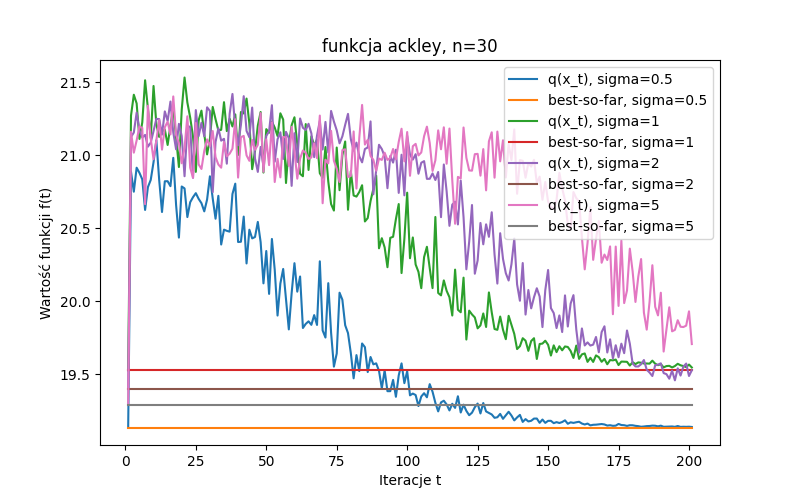
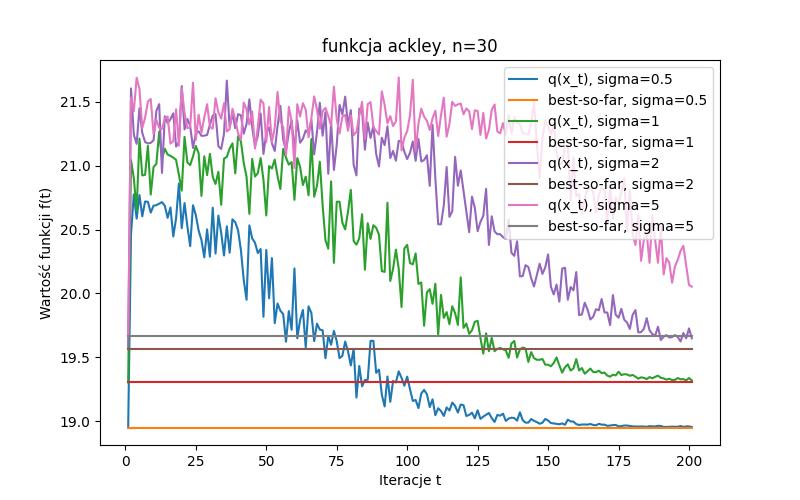
final commit

diff --git a/zad1/solver.py b/zad1/solver.py
@@ -30,6 +30,7 @@ def draw_plot(data, R=10):
         plt.figure(figsize=(8, 5))
         plt.xlabel("Iteracje t")
         plt.ylabel("Wartość funkcji f(t)")
+        x0 = np.random.randint(-params[1], params[1], params[1]).tolist()
         for power in params[2]:
             eval_func, n, update_power_period, max_without_new_best_value = (
                 params[0],
@@ -41,7 +42,7 @@ def draw_plot(data, R=10):
             for _ in range(R):
                 data = solver(
                     eval_func,
-                    np.random.randint(-n, n, n).tolist(),
+                    x0,
                     power,
                     update_power_period,
                     n * 100,
